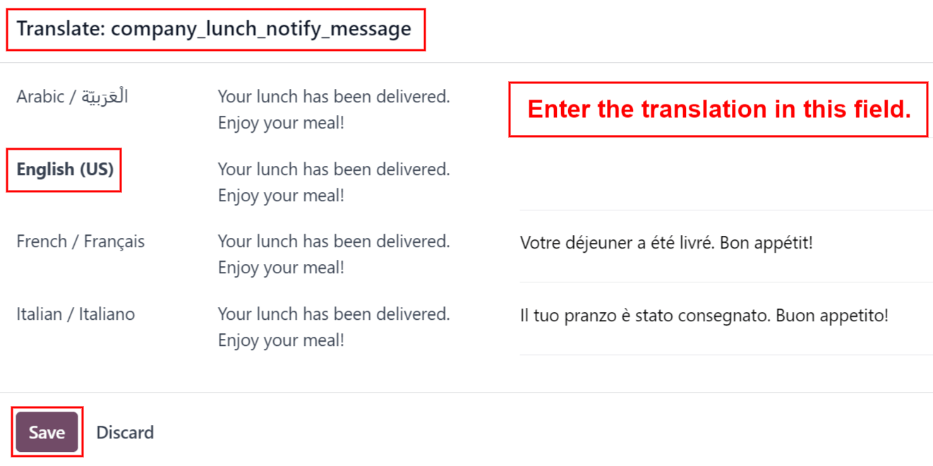
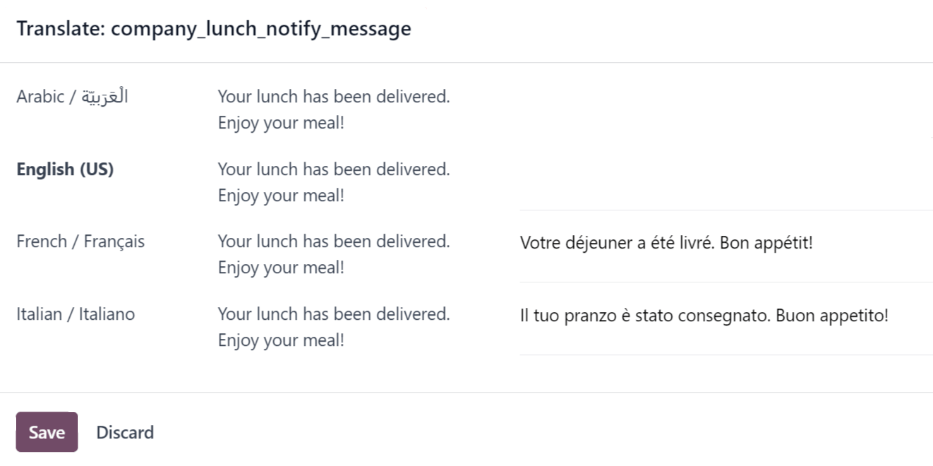
[IMP] Lunch: Update main doc

diff --git a/content/applications/hr/lunch.rst b/content/applications/hr/lunch.rst
@@ -4,30 +4,35 @@
 Lunch
 =====
 
-The *Lunch* application in Odoo allows users a convenient way to order food and pay for their meal
+The **Lunch** application in Odoo allows users to conveniently order food and pay for their meal
 directly from the database.
 
-Before employees can use the *Lunch* application, there are a number of configurations to consider:
-settings, vendors, locations, products, product categories, and alerts. Once these are created,
-employees can view offerings and order food.
+Before employees can use the **Lunch** application, there are a number of configurations that need
+to be made: :ref:`settings <lunch/settings>`, :doc:`vendors <lunch/vendors>`, :ref:`locations
+<lunch/locations>`, :doc:`products <lunch/products>`, and :ref:`product categories
+<lunch/product-categories>`. Once these are created and configured, employees can view offerings and
+order food.
+
+.. _lunch/settings:
 
 Settings
 ========
 
-Only two settings are needed to configure in the *Lunch* app: overdraft settings and notifications.
-To access the settings, navigate to :menuselection:`Lunch app --> Configuration: Settings`.
+In the :guilabel:`Settings` menu, only two items need to be configured: overdraft settings and
+notifications. To access the settings, navigate to :menuselection:`Lunch app --> Configuration -->
+Settings`.
 
 Configure the following:
 
-- :guilabel:`Lunch Overdraft`: enter the maximum overdraft amount for employees. The currency
-  format is determined by the localization setting of the company.
-- :guilabel:`Reception notification`: set the message users receive via the *Discuss* app when their
-  food has been delivered. The default message `Your lunch has been delivered. Enjoy your meal!`
-  populates this field, but can be modified, if desired.
+- :guilabel:`Lunch Overdraft`: enter the maximum overdraft amount for employees. The currency format
+  is determined by the localization setting of the company.
+- :guilabel:`Reception notification`: set the message users receive via the **Discuss** app when
+  their food has been delivered. The default message `Your lunch has been delivered. Enjoy your
+  meal!` populates this field, but can be modified, if desired.
 
 .. tip::
-   If in a database with multiple languages installed, many forms in the *Lunch* application have
-   the option of entering translations for various fields.
+   If a database has multiple languages installed, many forms in the **Lunch** application have the
+   option of entering translations for various fields.
 
    If translations are available to be configured, a language code appears next to a translatable
    field on a form. To add translations for that field, click the two letter language code (for
@@ -36,8 +41,8 @@ Configure the following:
    The following is an example for the :guilabel:`Reception notification` field in the settings
    menu:
 
-   Navigate to :menuselection:`Lunch app --> Configuration: Settings`. Click the :guilabel:`EN` In
-   the top-right of the text box beneath the :guilabel:`Reception notification` section. A
+   Navigate to :menuselection:`Lunch app --> Configuration --> Settings`. Click the :guilabel:`EN`
+   In the top-right of the text box beneath the :guilabel:`Reception notification` section. A
    :guilabel:`Translate: company_lunch_notify_message` pop-up window loads with the option to enter
    a translation for the other languages used by the database.
 
@@ -48,17 +53,18 @@ Configure the following:
    Enter the text that should appear for each language, then click :guilabel:`Save`.
 
   .. image:: lunch/translation.png
-     :align: center
      :alt: The translation text box, with the current language highlighted, and the Arabic
            translation field highlighted.
+
+.. _lunch/locations:
 
 Locations
 =========
 
-By default, Odoo creates an `HQ Office` location when the *Lunch* application is installed. If a
+By default, Odoo creates an `HQ Office` location when the **Lunch** application is installed. If a
 company has more than one location, they must be configured.
 
-To add a location, navigate to :menuselection:`Lunch app --> Configuration: Locations`. The
+To add a location, navigate to :menuselection:`Lunch app --> Configuration --> Locations`. The
 currently configured locations appear in a list view. Click the :guilabel:`New` button in the
 top-left corner and a blank line appears beneath the last location in the list.
 
@@ -69,23 +75,23 @@ address field.
 Repeat this for all locations that need to be added.
 
 .. image:: lunch/locations.png
-   :align: center
    :alt: A list view of the locations with the new button highlighted.
 
 Alerts
 ======
 
-It is possible to set up alerts that can either be displayed in the *Lunch* app, or be sent to
-specific employees via the *Discuss* app.
+It is possible to set up alerts that can either be displayed in the **Lunch** app, or be sent to
+specific employees via the **Discuss** app.
 
-No alerts are pre-configured by default. To set up an alert, navigate to :menuselection:`Lunch app
---> Configuration: Alerts`. Click the :guilabel:`New` button in the top-left corner and a blank
+No alerts are preconfigured by default. To set up an alert, navigate to :menuselection:`Lunch app
+--> Configuration --> Alerts`. Click the :guilabel:`New` button in the top-left corner and a blank
 lunch alert form loads. Enter the following information on the form:
 
 - :guilabel:`Alert Name`: enter a name for the alert. This should be short and descriptive, such as
-  `New Lunch Vendor` or `Order by 11`. This field is **required**.
-- :guilabel:`Display`: select whether the alert is visible in the *Lunch* app (:guilabel:`Alert in
-  app)` or sent to employees via the *Discuss* app in a chat window (:guilabel:`Chat notification`).
+  `New Lunch Vendor` or `Order by 11:00 AM`. This field is **required**.
+- :guilabel:`Display`: select whether the alert is visible in the **Lunch** app (:guilabel:`Alert in
+  app)` or sent to employees via the **Discuss** app in a chat window (:guilabel:`Chat
+  notification`).
 
   - :guilabel:`Recipients`: this field only appears if :guilabel:`Chat notification` is selected for
     the :guilabel:`Display` option. Select who receives the chat alert. The options are:
@@ -93,8 +99,8 @@ lunch alert form loads. Enter the following information on the form:
     ordered last month`, or :guilabel:`Employee who ordered last year`.
 
 - :guilabel:`Location`: select the locations the alert should appear for from the drop-down menu.
-  Multiple locations can be selected. This field is **required**, therefore, if the alert applies
-  to all locations, select all the locations from the drop-down menu.
+  Multiple locations can be selected. This field is **required**, therefore, if the alert applies to
+  all locations, select all the locations from the drop-down menu.
 - :guilabel:`Show Until`: if the alert should expire on a specific date, select the date from the
   calendar picker.
 - :guilabel:`Active`: this option is on (appears green) by default. To turn off the alert, click the
@@ -109,7 +115,6 @@ lunch alert form loads. Enter the following information on the form:
   the :guilabel:`Time` field.
 
 .. image:: lunch/alert.png
-   :align: center
    :alt: An alert form with all of the information filled out for a chat alert sent at 10:30 AM,
          asking employees to submit orders by 11:30 AM.
 
